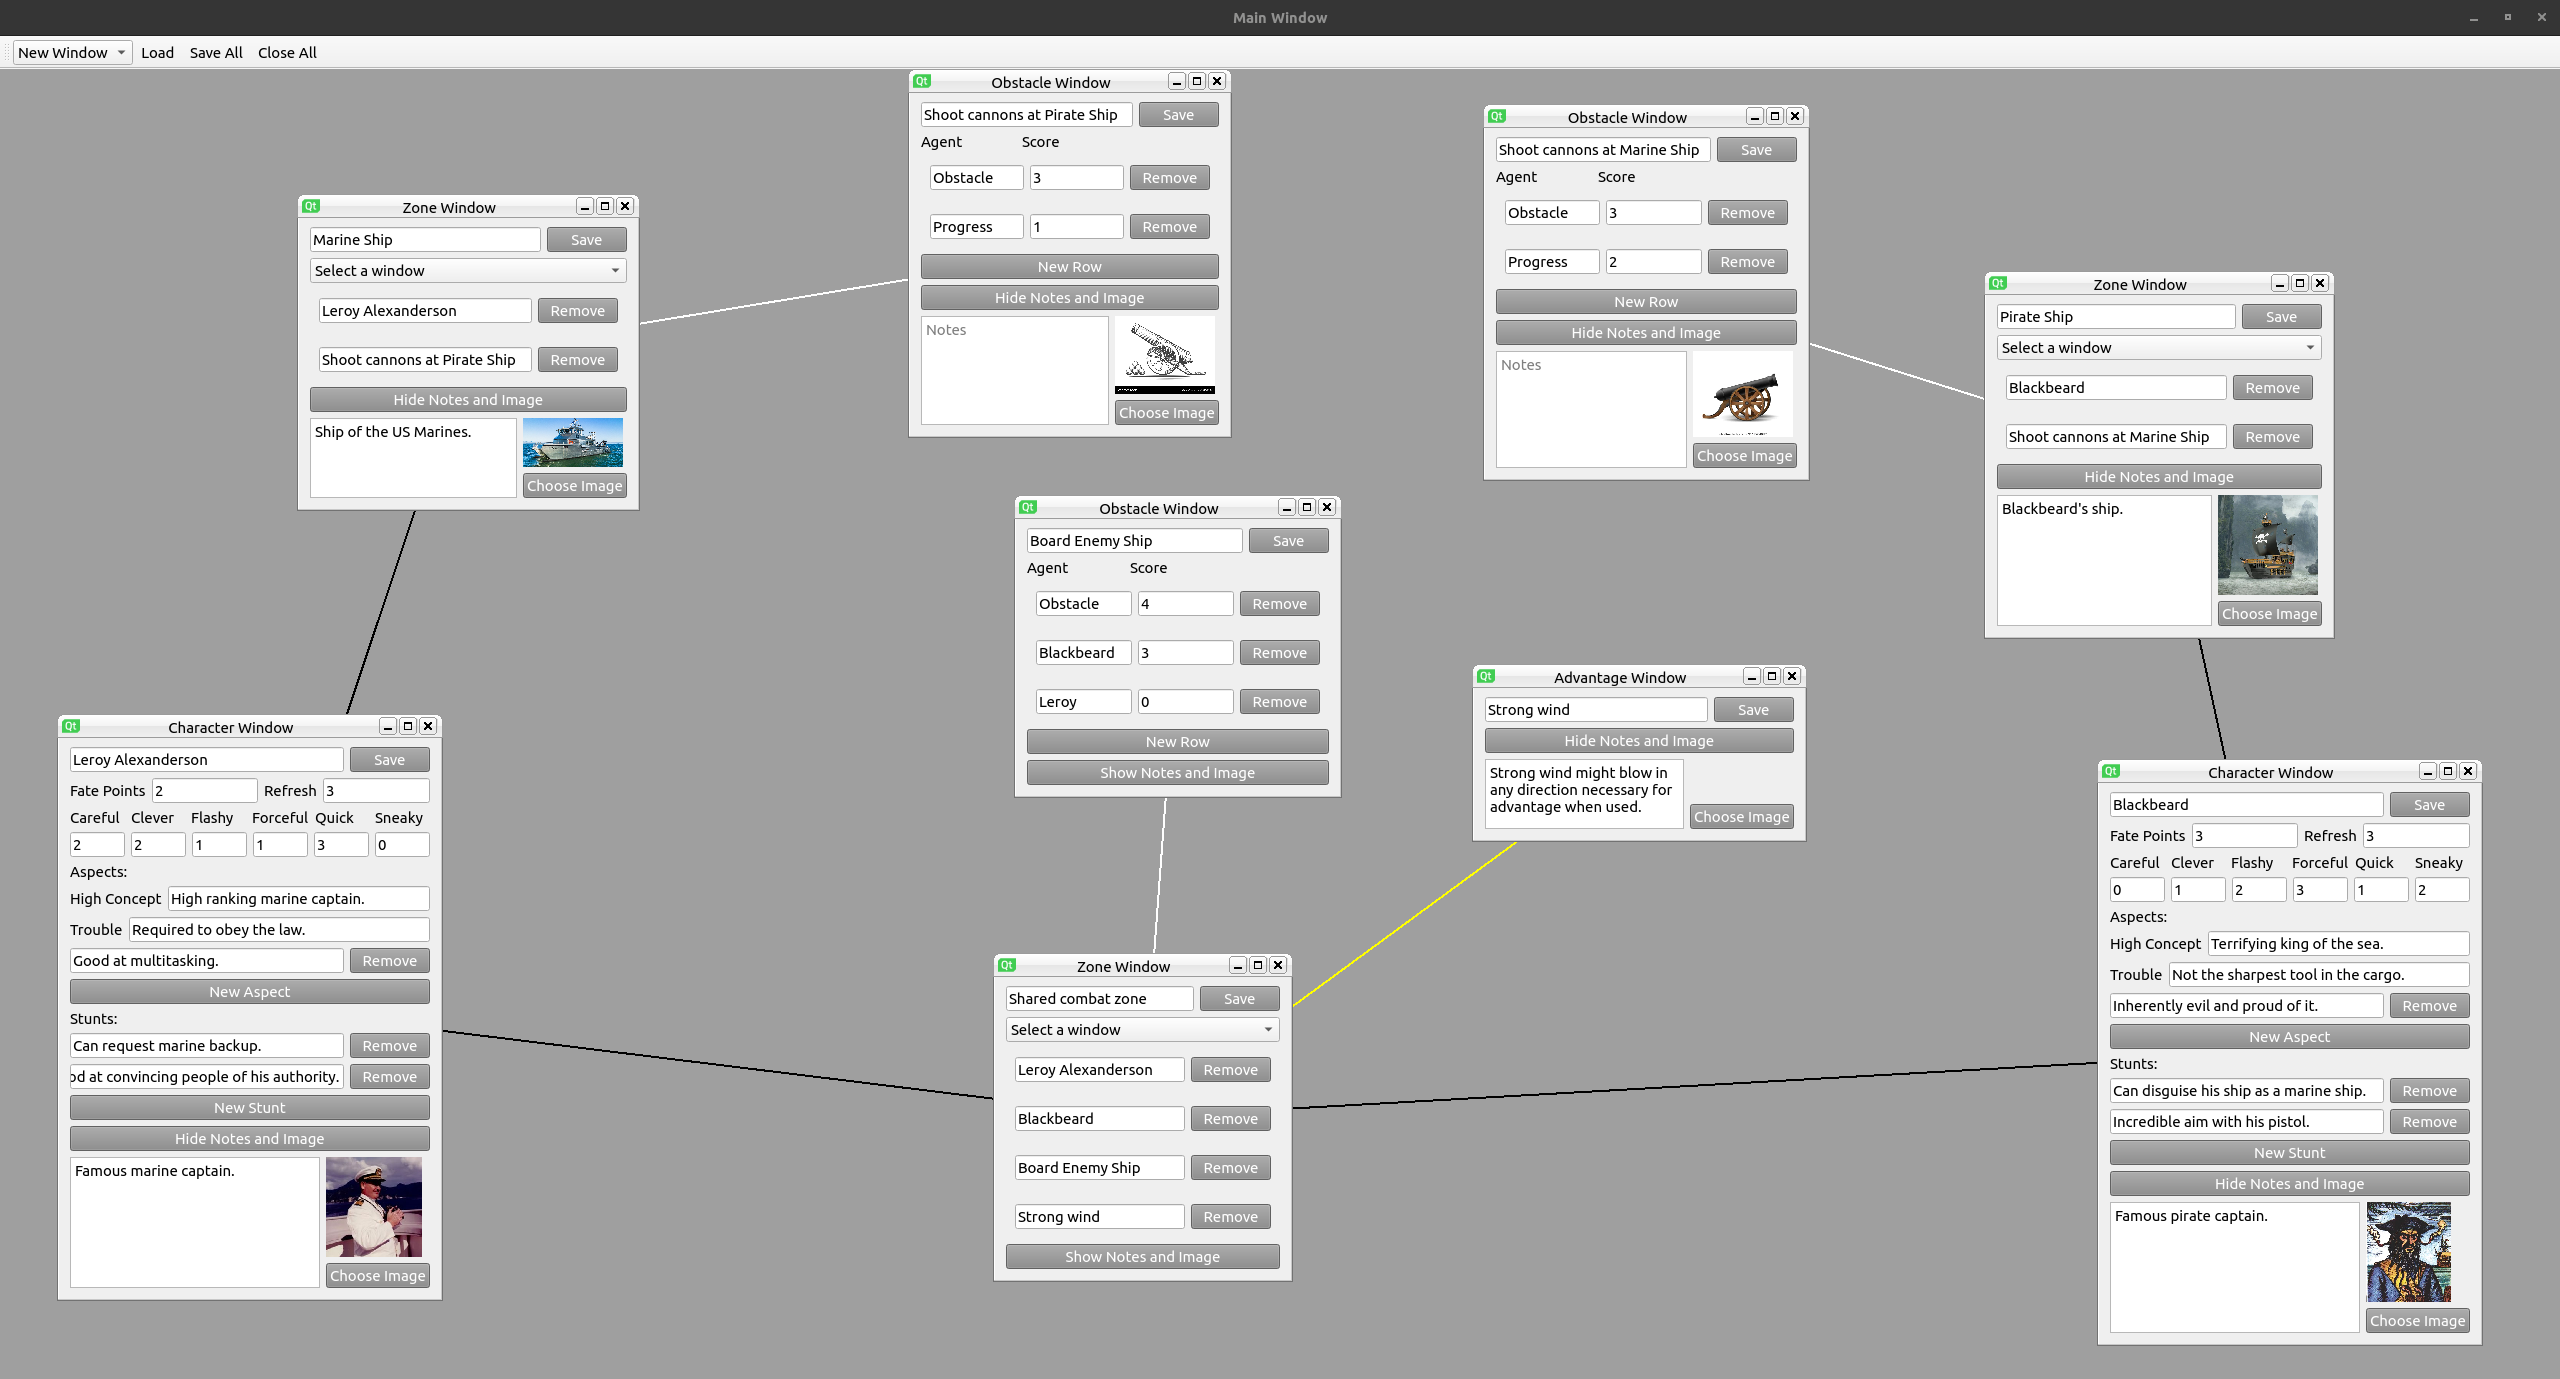
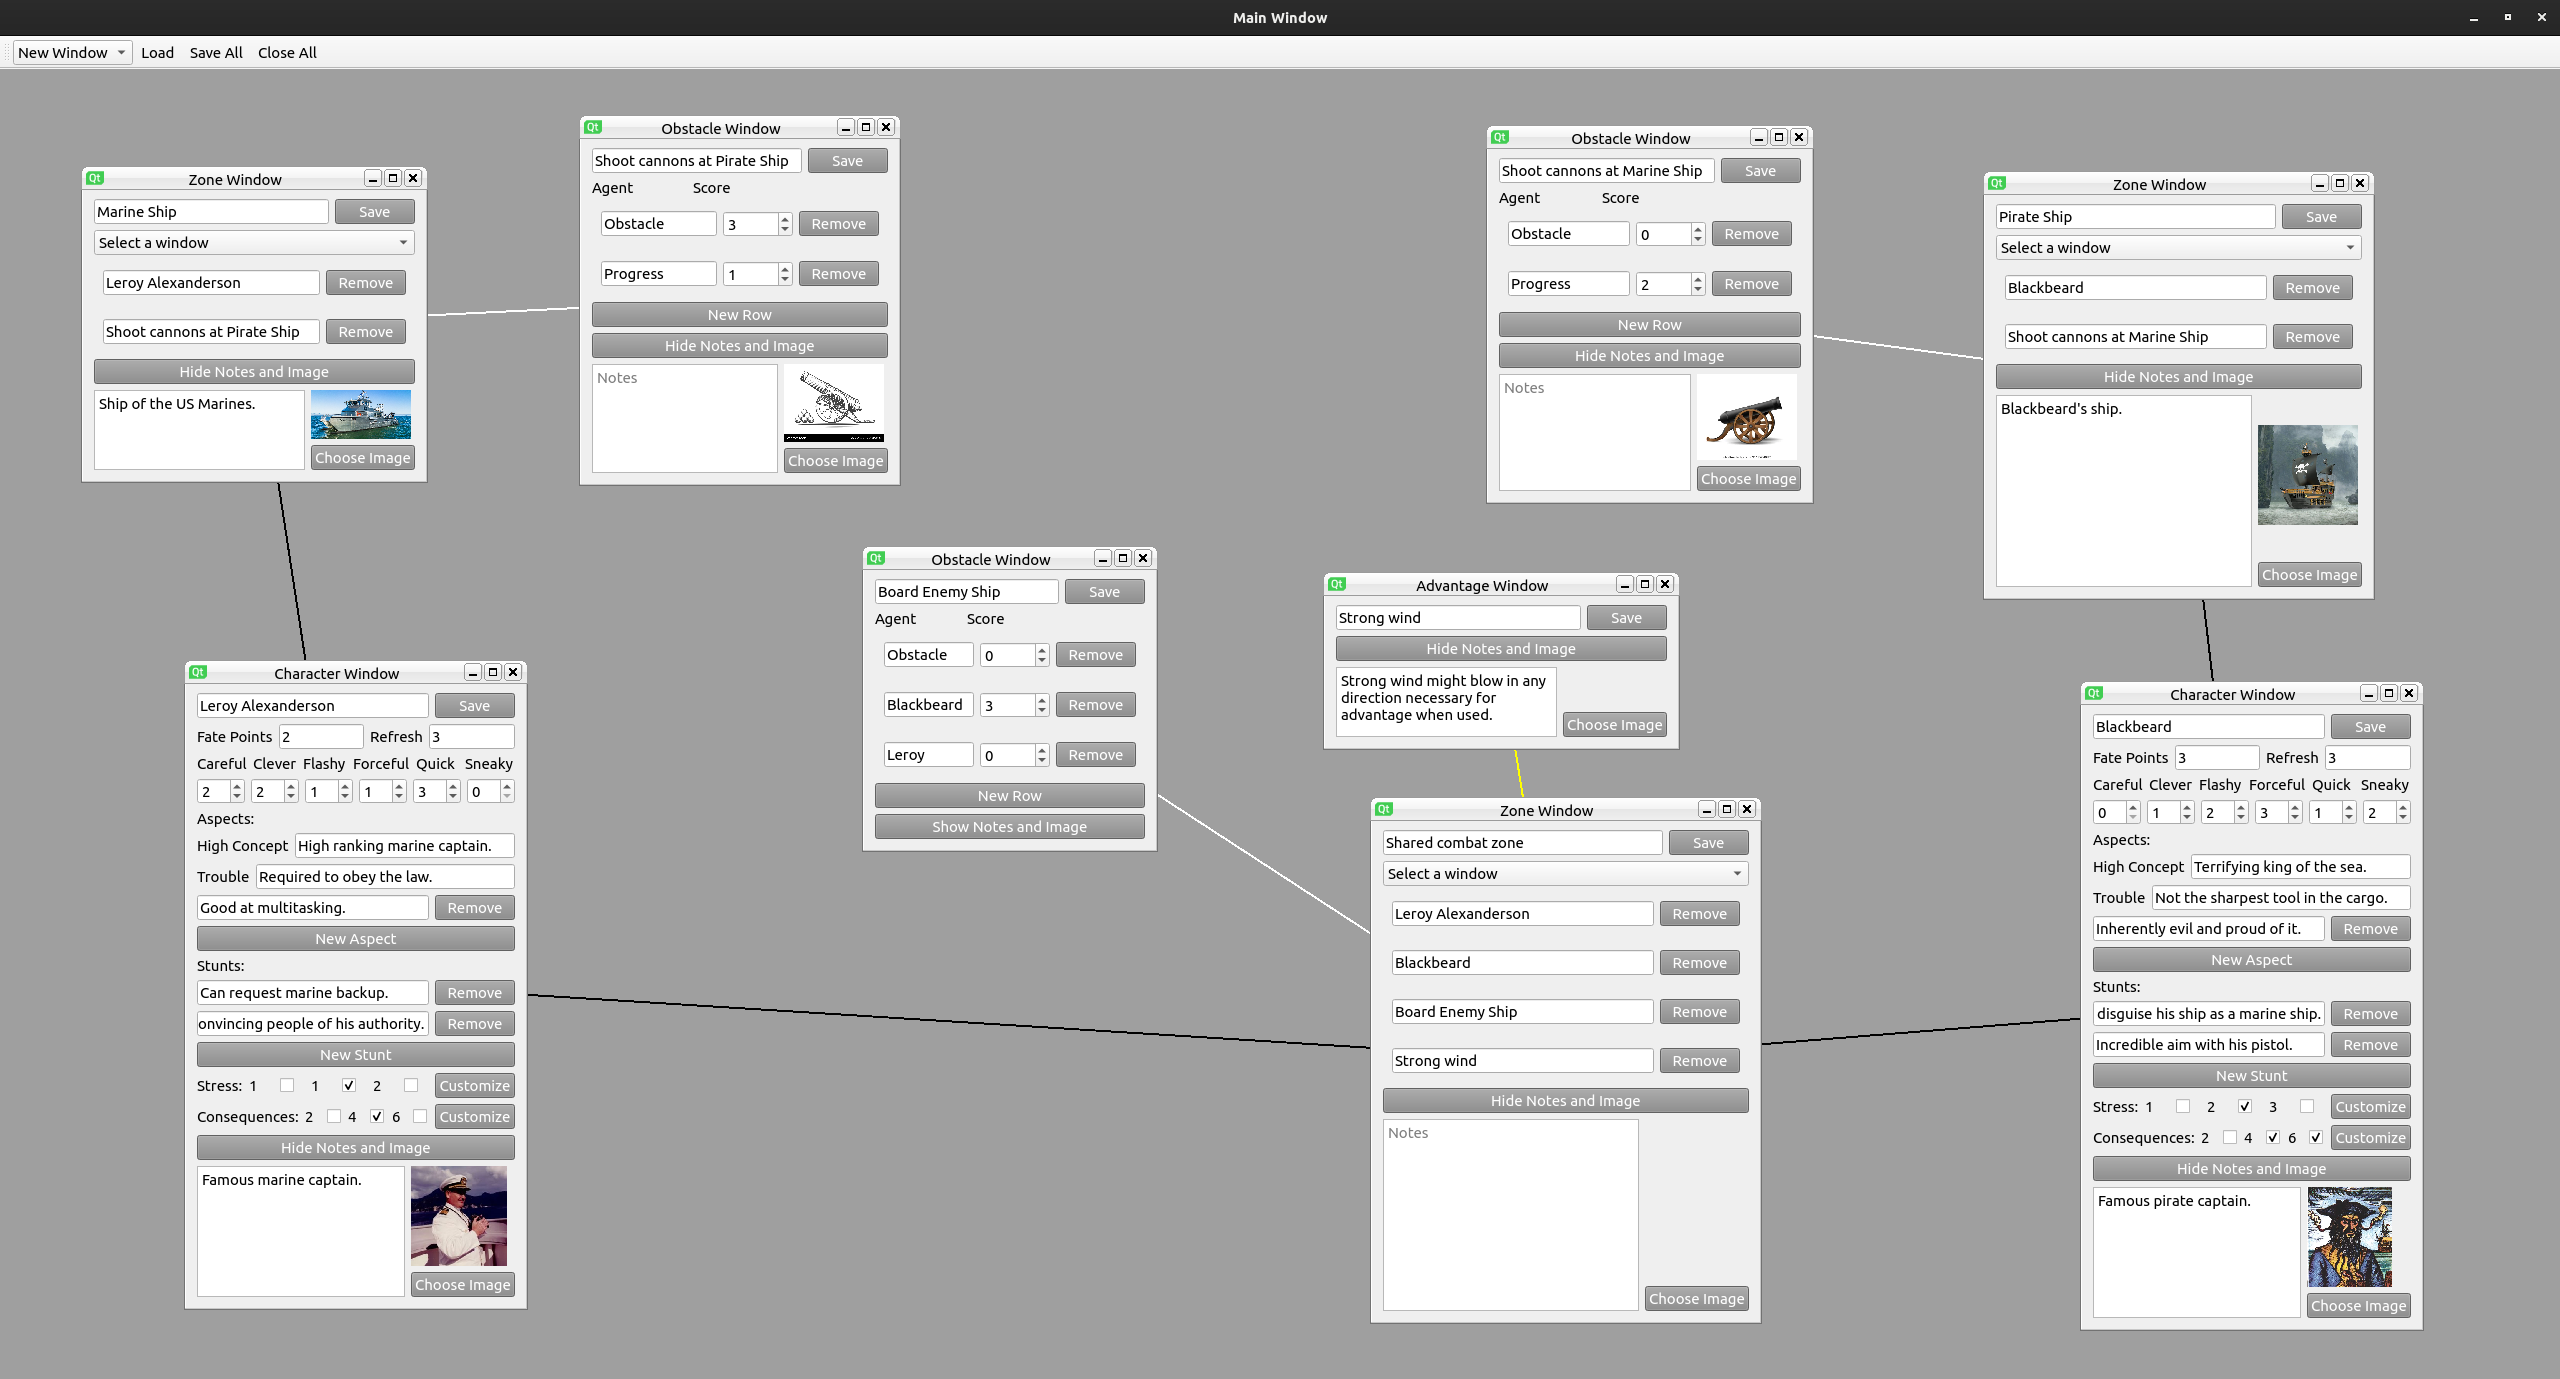
this is just awesome

diff --git a/obstacle_window.py b/obstacle_window.py
@@ -1,5 +1,5 @@
 import os
-from PyQt5.QtWidgets import QVBoxLayout, QHBoxLayout, QLineEdit, QPushButton, QWidget, QMessageBox, QFileDialog, QLabel, QSpinBox
+from PyQt5.QtWidgets import QVBoxLayout, QHBoxLayout, QLineEdit, QPushButton, QWidget, QMessageBox, QFileDialog, QLabel
 from PyQt5.QtCore import Qt, pyqtSlot
 from PyQt5.QtGui import QPixmap
 from default_window import DefaultWindow, button_style
@@ -48,9 +48,8 @@ class ObstacleWindow(DefaultWindow):
         agent_input.setText(agent)
         row_layout.addWidget(agent_input)
 
-        score_input = QSpinBox(self)
-        score_input.setRange(-9999, 9999)
-        score_input.setValue(int(score))
+        score_input = QLineEdit(self)
+        score_input.setText(score)
         row_layout.addWidget(score_input)
 
         remove_button = QPushButton('Remove', self)
@@ -99,7 +98,7 @@ class ObstacleWindow(DefaultWindow):
                 if row_widget:
                     agent_input = row_widget.layout().itemAt(0).widget()
                     score_input = row_widget.layout().itemAt(1).widget()
-                    file.write(f"{agent_input.text()}:{score_input.value()}\n")
+                    file.write(f"{agent_input.text()}:{score_input.text()}\n")
             file.write(f"Notes: {self.notes_input.toPlainText()}\n")
             file.write(f"ImagePath: {self.image_path}\n")
         
@@ -107,6 +106,9 @@ class ObstacleWindow(DefaultWindow):
             QMessageBox.information(self, 'Info', f'Contents saved to {file_path}')
 
     def load_contents(self, file_path):
+        # Clear existing rows before loading
+        self.clear_rows()
+
         with open(file_path, 'r') as file:
             lines = file.readlines()
             self.name_input.setText(lines[1].split(": ")[1].strip())
@@ -119,5 +121,8 @@ class ObstacleWindow(DefaultWindow):
                 pixmap = QPixmap(self.image_path)
                 self.image_label.setPixmap(pixmap.scaled(100, 100, Qt.KeepAspectRatio))
 
-    def get_save_folder(self):
-        return "Obstacles"
+    def clear_rows(self):
+        while self.rows_layout.count():
+            row = self.rows_layout.takeAt(0)
+            if row.widget():
+                row.widget().deleteLater()

diff --git a/zone_window.py b/zone_window.py
@@ -177,7 +177,7 @@ class ZoneWindow(DefaultWindow):
                 if window_class == ZoneWindow:
                     window_instance = window_class(self.mdi_area)
                 else:
-                    window_instance = window_class()
+                    window_instance = window_class(add_default_rows=False) if window_class == ObstacleWindow else window_class()
                 window_instance.load_contents(file_path)
                 sub_window.setWidget(window_instance)
                 sub_window.setAttribute(Qt.WA_DeleteOnClose)
